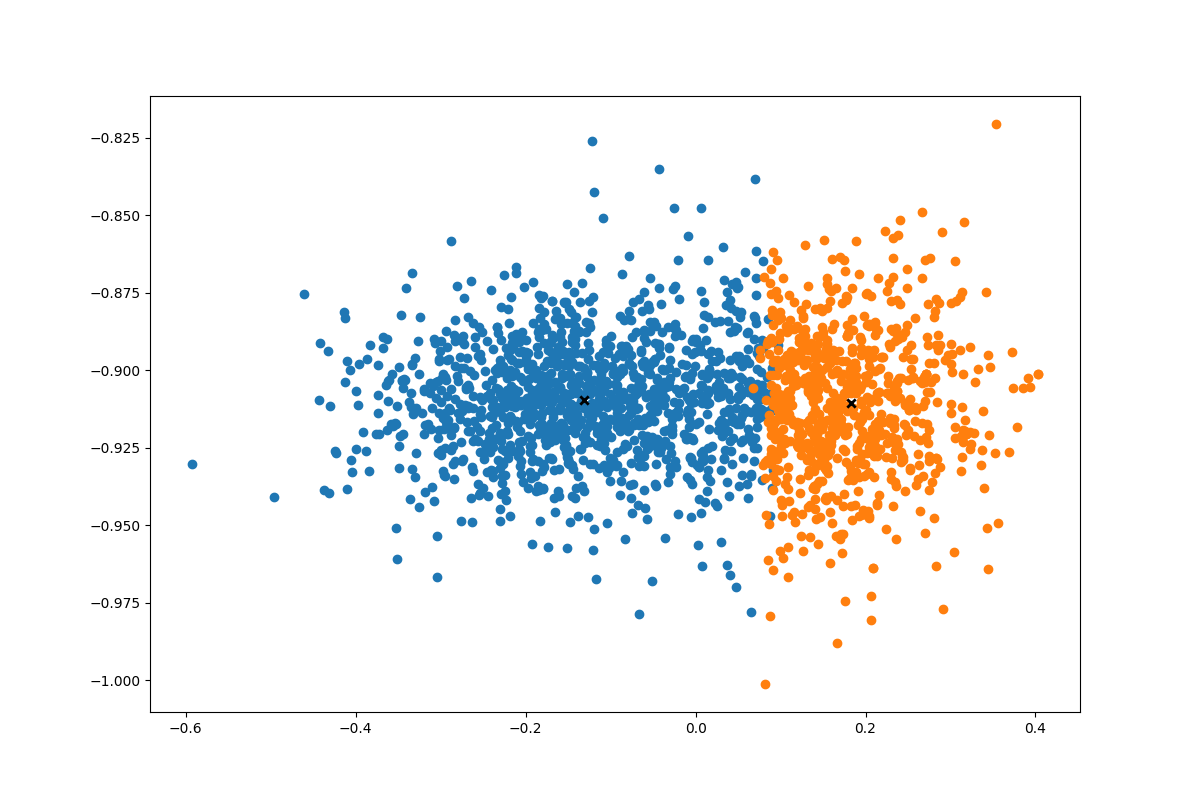
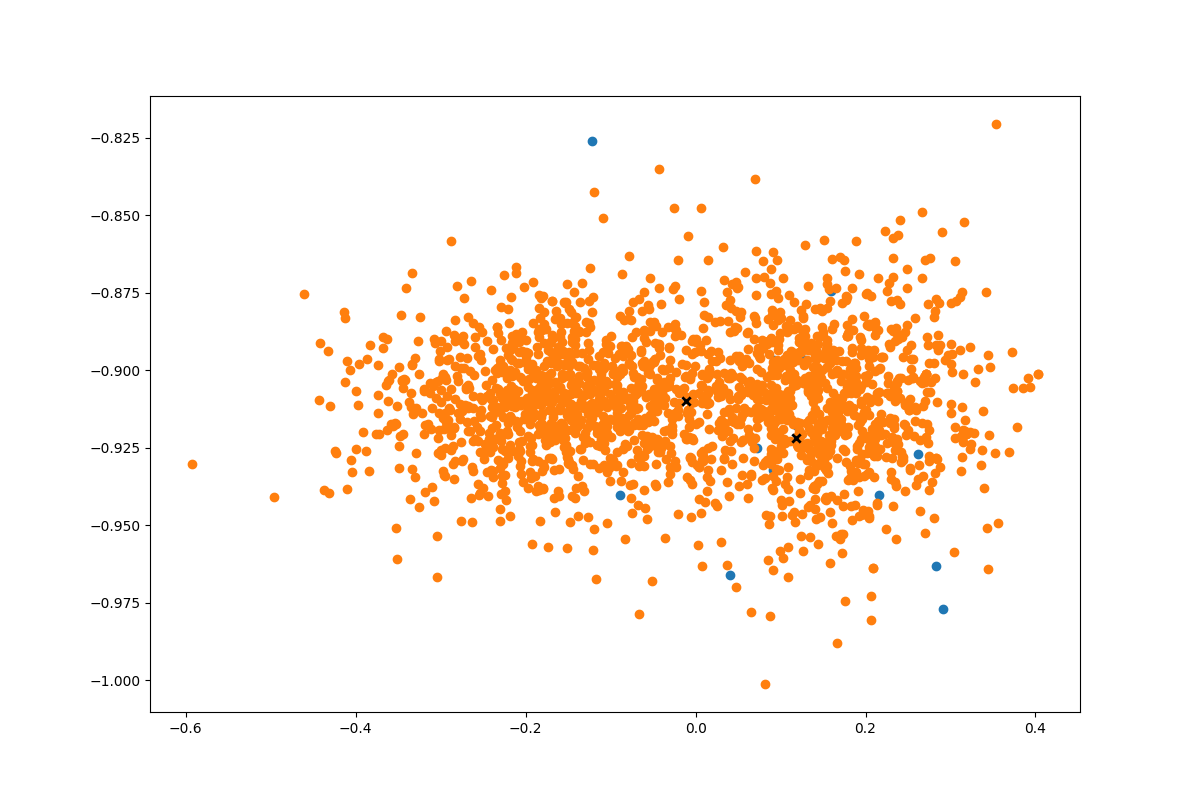
added library implementation

diff --git a/ML_software_project_semi_supervised_library.py b/ML_software_project_semi_supervised_library.py
@@ -1,0 +1,266 @@
+import numpy as np
+from sklearn.discriminant_analysis import LinearDiscriminantAnalysis
+from sklearn.cluster import KMeans
+import data_helpers
+import math
+import tensorflow as tf
+from matplotlib import pyplot as plt
+
+tf.flags.DEFINE_string("positive_data_file", "./data/subj-obj/all_obj.txt", "Data source for the positive data.")
+tf.flags.DEFINE_string("negative_data_file", "./data/subj-obj/all_subj.txt", "Data source for the negative data.")
+
+vocab_file = "./corola.100.50.vec"
+
+FLAGS = tf.flags.FLAGS
+
+def euclidean_distance(x1, x2):
+    return np.sqrt(np.sum((x1 - x2) ** 2))
+
+def create_vocabulary_dicts(vocab_file):
+    vocab_embed_dict = {}
+    with open(vocab_file, 'r') as f:
+        f.readline() # skip header
+        word_id = 0
+        while True:
+            line = f.readline()
+            if not line:
+                break
+            word = line.strip().split()[0]
+            embed = line.strip().split()[1:]
+            vocab_embed_dict[word] = [float(element) for element in embed]
+            word_id += 1
+    return vocab_embed_dict
+
+def sentences_to_indices_matrix_and_embed_tensor(sentences, vocab_embed_dict, max_document_length, generate_embed_tensor=True):
+    sentence_array = np.zeros((len(sentences), max_document_length), dtype=np.int32)
+
+    word_id_dict = {}
+    word_id = 1
+
+    for sentence_idx, sentence in enumerate(sentences):
+        for word_idx, word in enumerate(sentence.split(' ')):
+            if word[len(word)-1] == '.':
+                word = word.split('.')[0]
+            
+            word_array_value = 0
+            if word in vocab_embed_dict.keys():
+                if word in word_id_dict.keys():
+                    word_array_value = word_id_dict[word]
+                else:
+                    word_id_dict[word] = word_id
+                    word_array_value = word_id
+                    word_id += 1
+            
+            sentence_array[sentence_idx, word_idx] = word_array_value
+
+    if generate_embed_tensor:
+        embed_tensor = np.zeros((word_id, max([len(embed) for embed in vocab_embed_dict.values()])), dtype=np.float32)
+        print(embed_tensor.shape)
+
+        iter = 1
+        for word, word_id in word_id_dict.items():
+            embed_tensor[word_id, :] = vocab_embed_dict[word]
+            if iter%1000 == 0:
+                print(f"Generating embed tensor: {int(iter/len(word_id_dict.keys())*100)}% Done")
+            iter +=1
+    else:
+        embed_tensor = None
+    
+    return sentence_array, embed_tensor
+
+def binary_classification_metrics(predicted_labels, ground_truth_labels):
+    """
+    Compute Accuracy, Precision, Recall, and F1-Score for both classes
+    and report their macro-average.
+
+    Parameters:
+    - predicted_labels: Array-like, predicted labels (0 or 1).
+    - ground_truth_labels: Array-like, ground truth labels (0 or 1).
+
+    Returns:
+    - metrics: A dictionary containing accuracy, macro precision, macro recall, and macro F1-score.
+    """
+    # Convert inputs to numpy arrays
+    predicted_labels = np.array(predicted_labels)
+    ground_truth_labels = np.array(ground_truth_labels)
+
+    # Metrics for class 0
+    TP_0 = np.sum((predicted_labels == 0) & (ground_truth_labels == 0))
+    FP_0 = np.sum((predicted_labels == 0) & (ground_truth_labels == 1))
+    FN_0 = np.sum((predicted_labels == 1) & (ground_truth_labels == 0))
+
+    precision_0 = TP_0 / (TP_0 + FP_0) if (TP_0 + FP_0) > 0 else 0.0
+    recall_0 = TP_0 / (TP_0 + FN_0) if (TP_0 + FN_0) > 0 else 0.0
+    f1_0 = (2 * precision_0 * recall_0) / (precision_0 + recall_0) if (precision_0 + recall_0) > 0 else 0.0
+
+    # Metrics for class 1
+    TP_1 = np.sum((predicted_labels == 1) & (ground_truth_labels == 1))
+    FP_1 = np.sum((predicted_labels == 1) & (ground_truth_labels == 0))
+    FN_1 = np.sum((predicted_labels == 0) & (ground_truth_labels == 1))
+
+    precision_1 = TP_1 / (TP_1 + FP_1) if (TP_1 + FP_1) > 0 else 0.0
+    recall_1 = TP_1 / (TP_1 + FN_1) if (TP_1 + FN_1) > 0 else 0.0
+    f1_1 = (2 * precision_1 * recall_1) / (precision_1 + recall_1) if (precision_1 + recall_1) > 0 else 0.0
+
+    # Macro-average metrics
+    macro_precision = (precision_0 + precision_1) / 2
+    macro_recall = (recall_0 + recall_1) / 2
+    macro_f1 = (f1_0 + f1_1) / 2
+
+    # Accuracy
+    accuracy = np.sum(predicted_labels == ground_truth_labels) / len(ground_truth_labels)
+
+    # Return results as a dictionary
+    return {
+        "Accuracy": accuracy,
+        "Macro Precision": macro_precision,
+        "Macro Recall": macro_recall,
+        "Macro F1-Score": macro_f1
+    }
+
+print("Loading data...")
+x_text, y = data_helpers.load_data_and_labels(FLAGS.positive_data_file, FLAGS.negative_data_file)
+# Build vocabulary
+max_document_length = max([len(x.split(" ")) for x in x_text])
+print("Max doc length:", max_document_length)
+vocab_embed_dict = create_vocabulary_dicts(vocab_file)
+x, embed_tensor = sentences_to_indices_matrix_and_embed_tensor(x_text, vocab_embed_dict, max_document_length)
+
+sentence_embeddings_tensor = np.zeros((x.shape[0], embed_tensor.shape[1]), dtype=np.float32)
+
+for sentence_index, sentence in enumerate(x):
+    embedding_tensor_sum = np.zeros(embed_tensor.shape[1], dtype=np.float32)
+    non_null_words = 0
+    for word_index in sentence:
+        if word_index == 0:
+            continue
+        non_null_words += 1
+        embedding_tensor_sum += embed_tensor[word_index]
+    
+    sentence_embeddings_tensor[sentence_index] = embedding_tensor_sum / non_null_words
+    if math.isnan(np.linalg.norm(sentence_embeddings_tensor[sentence_index])):
+        print("Nan embedding: ", sentence, x_text[sentence_index])
+
+print(sentence_embeddings_tensor.shape)
+
+shuffle_perm = np.random.permutation(y.shape[0])
+X_shuffled = sentence_embeddings_tensor[shuffle_perm]
+y_shuffled = y[shuffle_perm]
+
+fold_count = 5
+fold_size = y.shape[0] // 5
+
+no_lda_accuracy_sum = 0
+no_lda_precision_sum = 0
+no_lda_recall_sum = 0
+no_lda_f1_sum = 0
+
+for fold_start in range(0, fold_size * fold_count, fold_size):
+
+    k = KMeans(n_clusters=2, random_state=42)
+    # No LDA
+    # Define the range for the current test fold
+    fold_end = fold_start + fold_size
+    
+    # Split the data into training and test sets for this fold
+    X_test = X_shuffled[fold_start:fold_end, :]
+    y_test = y_shuffled[fold_start:fold_end]
+    
+    X_train = np.vstack((X_shuffled[:fold_start, :], X_shuffled[fold_end:, :]))
+    y_train = np.vstack((y_shuffled[:fold_start, :], y_shuffled[fold_end:, :]))
+
+    k.fit(X_train)
+    y_pred_no_lda = k.predict(X_test)
+
+    metrics_no_lda = binary_classification_metrics(y_pred_no_lda, y_test[:, 0])
+    metrics_no_lda_inv = binary_classification_metrics(1- y_pred_no_lda, y_test[:, 0])
+    metrics_no_lda = metrics_no_lda if metrics_no_lda['Accuracy'] > metrics_no_lda_inv['Accuracy'] else metrics_no_lda_inv
+
+    no_lda_accuracy_sum += metrics_no_lda['Accuracy']
+    no_lda_precision_sum += metrics_no_lda['Macro Precision']
+    no_lda_recall_sum += metrics_no_lda['Macro Recall']
+    no_lda_f1_sum += metrics_no_lda['Macro F1-Score']
+
+# Compute averages across folds
+no_lda_accuracy_avg = no_lda_accuracy_sum / fold_count
+no_lda_precision_avg = no_lda_precision_sum / fold_count
+no_lda_recall_avg = no_lda_recall_sum / fold_count
+no_lda_f1_avg = no_lda_f1_sum / fold_count
+
+# Print results
+print("Cross val No-LDA metrics:")
+print(f"Accuracy: {no_lda_accuracy_avg:.6f}")
+print(f"Macro Precision: {no_lda_precision_avg:.6f}")
+print(f"Macro Recall: {no_lda_recall_avg:.6f}")
+print(f"Macro F1: {no_lda_f1_avg:.6f}")
+
+lda_accuracy_sum = 0
+lda_precision_sum = 0
+lda_recall_sum = 0
+lda_f1_sum = 0
+
+for fold_start in range(0, fold_size * fold_count, fold_size):
+
+    k = KMeans(n_clusters=2, random_state=42)
+    # No LDA
+    # Define the range for the current test fold
+    fold_end = fold_start + fold_size
+    
+    # Split the data into training and test sets for this fold
+    X_test = X_shuffled[fold_start:fold_end, :]
+    y_test = y_shuffled[fold_start:fold_end]
+    
+    X_train = np.vstack((X_shuffled[:fold_start, :], X_shuffled[fold_end:, :]))
+    y_train = np.vstack((y_shuffled[:fold_start, :], y_shuffled[fold_end:, :]))
+
+    lda = LinearDiscriminantAnalysis(n_components=1)
+    lda.fit(X_train, y_train[:, 0])
+    X_train_lda = lda.transform(X_train)
+    X_test_lda = lda.transform(X_test)
+
+    k.fit(X_train_lda)
+    y_pred_lda = k.predict(X_test_lda)
+
+    metrics_lda = binary_classification_metrics(y_pred_lda, y_test[:, 0])
+    metrics_lda_inv = binary_classification_metrics(1- y_pred_lda, y_test[:, 0])
+    metrics_lda = metrics_lda if metrics_lda['Accuracy'] > metrics_lda_inv['Accuracy'] else metrics_lda_inv
+
+    lda_accuracy_sum += metrics_lda['Accuracy']
+    lda_precision_sum += metrics_lda['Macro Precision']
+    lda_recall_sum += metrics_lda['Macro Recall']
+    lda_f1_sum += metrics_lda['Macro F1-Score']
+
+# Compute averages across folds
+lda_accuracy_avg = lda_accuracy_sum / fold_count
+lda_precision_avg = lda_precision_sum / fold_count
+lda_recall_avg = lda_recall_sum / fold_count
+lda_f1_avg = lda_f1_sum / fold_count
+
+# Print results
+print()
+print("Cross val LDA metrics:")
+print(f"Accuracy: {lda_accuracy_avg:.6f}")
+print(f"Macro Precision: {lda_precision_avg:.6f}")
+print(f"Macro Recall: {lda_recall_avg:.6f}")
+print(f"Macro F1: {lda_f1_avg:.6f}")
+
+# lda = LinearDiscriminantAnalysis(n_components=1)
+# sentences_transformed = lda.fit_transform(sentence_embeddings_tensor, y[:, 1])
+# print(sentences_transformed.shape)
+
+# y_pred = k.fit_predict(sentences_transformed)
+
+# metrics = binary_classification_metrics(y_pred, y[:, 1])
+# metrics_inv = binary_classification_metrics(1 - y_pred, y[:, 1])
+
+# print(metrics if metrics['Accuracy'] > metrics_inv['Accuracy'] else metrics_inv)
+
+# # Step 1: Apply LDA (dimensionality reduction)
+# lda = LinearDiscriminantAnalysis(n_components=min(len(set(y)) - 1, X.shape[1]))
+# X_lda = lda.fit_transform(X, y)
+
+# # Step 2: Apply KMeans clustering on LDA-transformed data
+# kmeans = KMeans(n_clusters=2, random_state=42)
+# kmeans_labels = kmeans.fit_predict(X_lda)
+
+

diff --git a/ML_software_project_semi_supervised.py b/ML_software_project_semi_supervised.py
@@ -110,6 +110,8 @@ class LDA:
 
     def transform(self, X):
         # project data
+        print(self.linear_discriminants)
+        print(self.linear_discriminants.shape)
         return np.dot(X, self.linear_discriminants.T)
 
 class KMeans:
@@ -203,6 +205,57 @@ class KMeans:
             ax.scatter(*point, marker="x", color="black", linewidth=2)
 
         plt.savefig(f"kmeans_steps/{step}.png")
+        plt.close()
+
+def binary_classification_metrics(predicted_labels, ground_truth_labels):
+    """
+    Compute Accuracy, Precision, Recall, and F1-Score for both classes
+    and report their macro-average.
+
+    Parameters:
+    - predicted_labels: Array-like, predicted labels (0 or 1).
+    - ground_truth_labels: Array-like, ground truth labels (0 or 1).
+
+    Returns:
+    - metrics: A dictionary containing accuracy, macro precision, macro recall, and macro F1-score.
+    """
+    # Convert inputs to numpy arrays
+    predicted_labels = np.array(predicted_labels)
+    ground_truth_labels = np.array(ground_truth_labels)
+
+    # Metrics for class 0
+    TP_0 = np.sum((predicted_labels == 0) & (ground_truth_labels == 0))
+    FP_0 = np.sum((predicted_labels == 0) & (ground_truth_labels == 1))
+    FN_0 = np.sum((predicted_labels == 1) & (ground_truth_labels == 0))
+
+    precision_0 = TP_0 / (TP_0 + FP_0) if (TP_0 + FP_0) > 0 else 0.0
+    recall_0 = TP_0 / (TP_0 + FN_0) if (TP_0 + FN_0) > 0 else 0.0
+    f1_0 = (2 * precision_0 * recall_0) / (precision_0 + recall_0) if (precision_0 + recall_0) > 0 else 0.0
+
+    # Metrics for class 1
+    TP_1 = np.sum((predicted_labels == 1) & (ground_truth_labels == 1))
+    FP_1 = np.sum((predicted_labels == 1) & (ground_truth_labels == 0))
+    FN_1 = np.sum((predicted_labels == 0) & (ground_truth_labels == 1))
+
+    precision_1 = TP_1 / (TP_1 + FP_1) if (TP_1 + FP_1) > 0 else 0.0
+    recall_1 = TP_1 / (TP_1 + FN_1) if (TP_1 + FN_1) > 0 else 0.0
+    f1_1 = (2 * precision_1 * recall_1) / (precision_1 + recall_1) if (precision_1 + recall_1) > 0 else 0.0
+
+    # Macro-average metrics
+    macro_precision = (precision_0 + precision_1) / 2
+    macro_recall = (recall_0 + recall_1) / 2
+    macro_f1 = (f1_0 + f1_1) / 2
+
+    # Accuracy
+    accuracy = np.sum(predicted_labels == ground_truth_labels) / len(ground_truth_labels)
+
+    # Return results as a dictionary
+    return {
+        "Accuracy": accuracy,
+        "Macro Precision": macro_precision,
+        "Macro Recall": macro_recall,
+        "Macro F1-Score": macro_f1
+    }
 
 print("Loading data...")
 x_text, y = data_helpers.load_data_and_labels(FLAGS.positive_data_file, FLAGS.negative_data_file)
@@ -227,15 +280,29 @@ for sentence_index, sentence in enumerate(x):
     if math.isnan(np.linalg.norm(sentence_embeddings_tensor[sentence_index])):
         print("Nan embedding: ", sentence, x_text[sentence_index])
 
-lda_n_components = 10
-lda = LDA(lda_n_components)
-lda.fit(sentence_embeddings_tensor, y[:, 1])
-sentences_transformed = lda.transform(sentence_embeddings_tensor)
-print(sentences_transformed.shape)
-plt.scatter(sentences_transformed[y[:, 1] == 1.0, 0], sentences_transformed[y[:, 1] == 1.0, 1], alpha=0.5, color='blue')
-plt.scatter(sentences_transformed[y[:, 1] == 0.0, 0], sentences_transformed[y[:, 1] == 0.0, 1], alpha=0.5, color='red')
-plt.savefig("lda_test.png")
-plt.close()
+print(sentence_embeddings_tensor.shape)
 
-k = KMeans(K=2, max_iters=150, plot_steps=True)
-y_pred = k.predict(sentences_transformed)
+k = KMeans(K=2, max_iters=150, plot_steps=False)
+# No LDA
+y_pred_no_lda = k.predict(sentence_embeddings_tensor)
+
+metrics_no_lda = binary_classification_metrics(y_pred_no_lda, y[:, 1])
+metrics_no_lda_inv = binary_classification_metrics(1- y_pred_no_lda, y[:, 1])
+
+print("No LDA:")
+print(metrics_no_lda if metrics_no_lda['Accuracy'] > metrics_no_lda_inv['Accuracy'] else metrics_no_lda_inv)
+
+# LDA with different numbers of components
+for lda_n_components in range(1, 101):
+    print(f"{lda_n_components} LDA components:")
+    lda = LDA(lda_n_components)
+    lda.fit(sentence_embeddings_tensor, y[:, 1])
+    sentences_transformed = lda.transform(sentence_embeddings_tensor)
+    print(sentences_transformed.shape)
+
+    y_pred = k.predict(sentences_transformed)
+
+    metrics = binary_classification_metrics(y_pred, y[:, 1])
+    metrics_inv = binary_classification_metrics(1 - y_pred, y[:, 1])
+
+    print(metrics if metrics['Accuracy'] > metrics_inv['Accuracy'] else metrics_inv)
